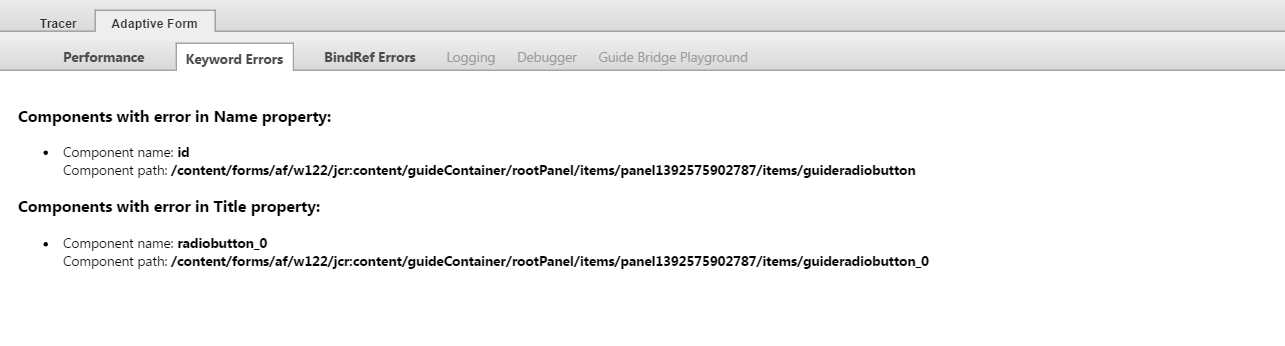
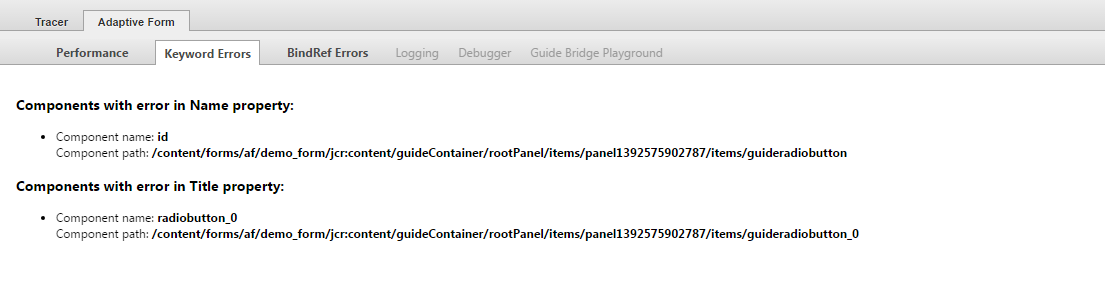
Updated screenshots for adaptive form plugin documentation.

diff --git a/acs-aem-tools/aem-chrome-plugin/adaptive-form/index.md b/acs-aem-tools/aem-chrome-plugin/adaptive-form/index.md
@@ -36,6 +36,16 @@ The Adaptive Form tab further organizes the information in the following tabs.
 
 Note: All tabs are not active in authoring and runtime modes. The tabs are active depending on the mode in which the form is opened.
 
+## How to use AEM Chrome Plug-in - Adaptive Form
+
+1. Install [AEM Chrome Plug-in](https://chrome.google.com/webstore/detail/aem-chrome-plug-in/ejdcnikffjleeffpigekhccpepplaode) via the Chrome web store.
+2. Open up Chrome Dev Panels (Chrome > View > Developer > Dev Tools) and click on the AEM tab.
+  * Pro tip: You can drag to re-arrange Dev Tool tabs.
+   ![Chrome Dev Tools Bar](acs-aem-tools/images/aem-chrome-plugin/adaptiveFormImages/AEM-panel.PNG)
+3. Navigate to Adaptive Form Tab.
+   ![Adaptive Form Panel](acs-aem-tools/images/aem-chrome-plugin/adaptiveFormImages/adaptive-form-tab.PNG)
+4. Use AEM Chrome Plug-in!
+
 ## Adaptive Form Author mode
 
 When you open an adaptive form in authoring mode, only the Performance, Keyword Errors, and BindRef Errors tabs are active. Active tabs in authoring mode include a Reload button. If you make changes to a form, you can click Reload to view the current state of the updated form in the dev tools window.
